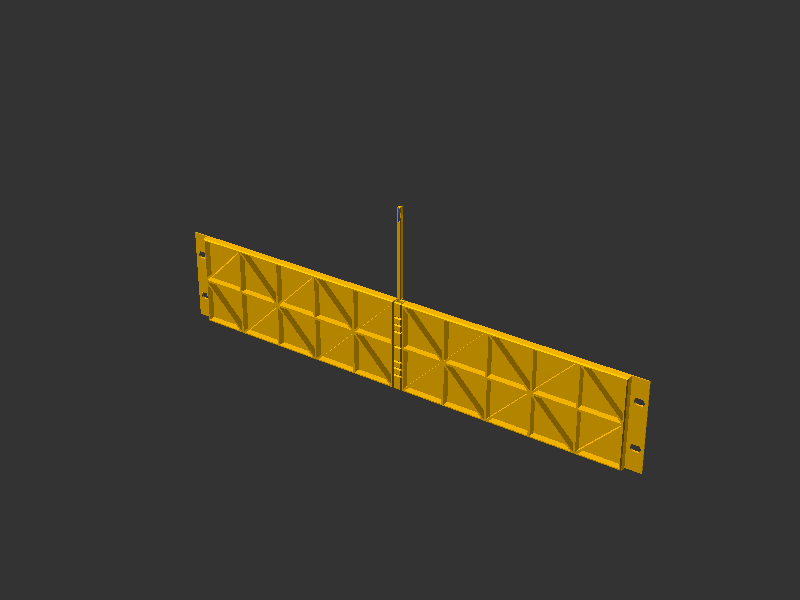
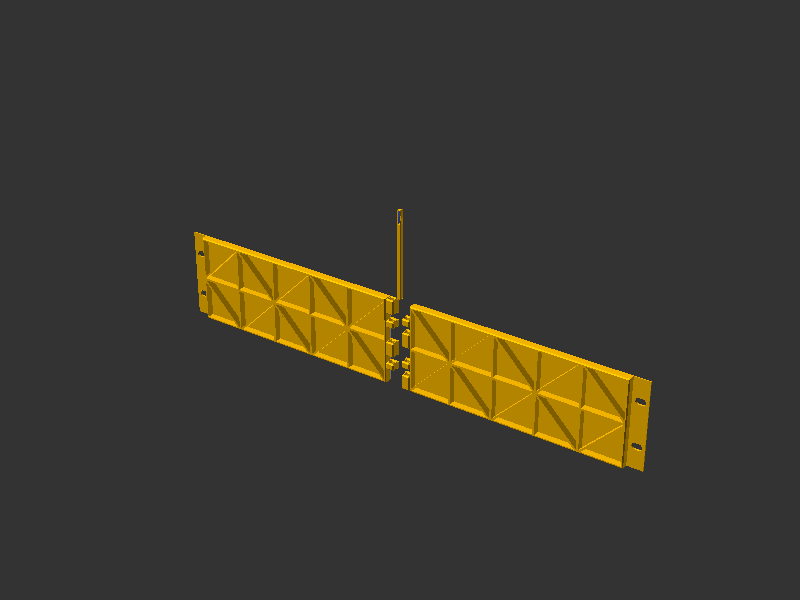
refactor(panel): drop split-knuckle bridge, add assembled + exploded views
- remove the knuckle bridge + tolerance padding so leaves butt flush against
  the centered knuckle body (cleaner seam, stiffer brace-to-knuckle join)
- overlap the split-half brace into the knuckle by HR_EPSILON to fix a
  slicer-flagged non-manifold edge at the brace/knuckle seam
- split view_mode 0 now shows the real assembled panel with the lock pin
  seated; new view_mode 3 is the exploded preview (halves apart, pin floating)
- regenerate split catalog renders (exploded) and update README

Changed region(s): [[0.25, 0.42, 0.8125, 0.81]]

diff --git a/models/panel/README.md b/models/panel/README.md
@@ -106,7 +106,7 @@ A standard 10"/19" rack-compatible panel with configurable bore patterns. Open `
 | `back_brace` | false | — | Add a triangulated truss stiffener on the panel back, flush with the split-knuckle plane — see [Stiffening](#-stiffening-depth-vs-back-brace) |
 | `back_brace_density` | regular | regular, dense | Truss band density when `back_brace` is on — `regular` = 1 band per unit, `dense` = 2 bands per unit (finer triangles, but noticeably more material) |
 | `split_mode` | 0 (Full) | 0–1 | Print whole (Full) or split into halves (Half) — see [Split Panels](#-split-panels) |
-| `view_mode` | 0 (Assembly) | 0–2 | When split: show both halves assembled, left half only, or right half only |
+| `view_mode` | 0 (Assembled) | 0–3 | When split: assembled panel (pin seated), left half only, right half only, or exploded preview (halves apart + pin floating above) |
 | `split_connector_strength` | slim | slim, strong | Hinge connector knuckle width — `strong` uses a full base unit for extra rigidity |
 | `debug_colors` | false | — | Show distinct colors per section for debugging |
 | `chamfer_enabled` | true | — | Apply chamfers to edges |
@@ -182,7 +182,7 @@ A 19" rack panel (482.6mm) is wider than most printer beds. **Split mode** divid
 
 ### Print & assembly
 
-1. Set `split_mode = 1` (Half) and print each half — use `view_mode = 1` (Left) and `view_mode = 2` (Right), or print both at once with `view_mode = 0` (Assembly). The hinge knuckles are generated automatically as part of each half; `parts/split_connector.scad` exposes the bare connector standalone for preview and inspection.
+1. Set `split_mode = 1` (Half) and print each half — use `view_mode = 1` (Left) and `view_mode = 2` (Right). `view_mode = 0` (Assembled) previews the finished panel with the lock pin seated, and `view_mode = 3` (Exploded) shows how the two halves and the pin fit together — neither is a print layout. The hinge knuckles are generated automatically as part of each half; `parts/split_connector.scad` exposes the bare connector standalone for preview and inspection.
 2. Print the matching **Split Lock Pin** (`parts/split_lockpin.scad`) at the same `height_units`.
 3. Interleave the two halves' hinge knuckles and slide the lock pin down through the aligned bores until it seats.
 
@@ -222,7 +222,7 @@ To generate or refresh the renders (full F6 renders via `scadm export-png`):
 scadm export-png models/panel/parts/split_connector.scad
 scadm export-png models/panel/parts/split_lockpin.scad
 scadm export-png models/panel/parts/split_lockpin.scad -D height_units=2 --output models/panel/parts/renders/split_lockpin_2u.png
-scadm export-png models/panel/parts/rackpanel.scad -D panel_width_type=2 -D height_units=2 -D split_mode=1 --output models/panel/parts/renders/rackpanel_split_2u_19inch.png
+scadm export-png models/panel/parts/rackpanel.scad -D panel_width_type=2 -D height_units=2 -D split_mode=1 -D view_mode=3 --output models/panel/parts/renders/rackpanel_split_2u_19inch.png
 ```
 
 ### Module Architecture